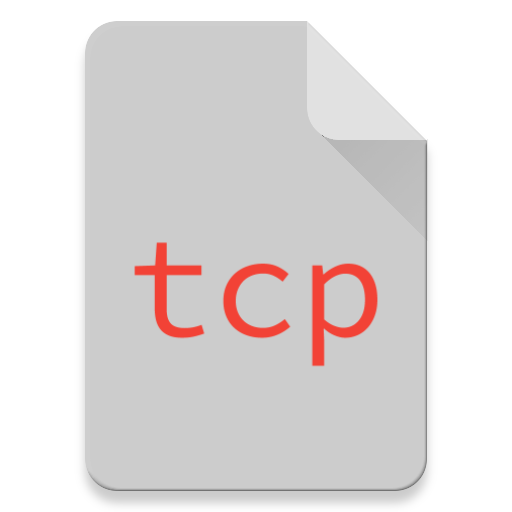
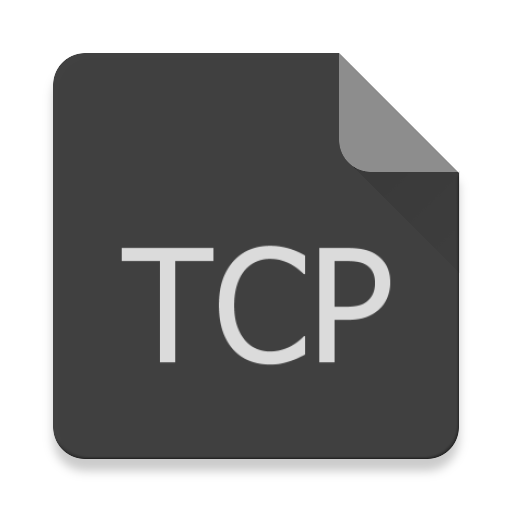
Multiple fix

diff --git a/app/src/main/java/fr/dao/app/View/Widget/Adapter/WiresharkDashboardAdapter.java b/app/src/main/java/fr/dao/app/View/Widget/Adapter/WiresharkDashboardAdapter.java
@@ -43,6 +43,13 @@ public class                    WiresharkDashboardAdapter extends RecyclerView.A
                 .inflate(R.layout.item_packets_type, parent, false));
     }
 
+    /**
+     * lOGO
+     * Thamoa
+     * 20% padding
+     * DDDDDD
+     * 414141
+     */
     public void                 onBindViewHolder(final PacketHolder holder, int position) {
         switch (holder.getAdapterPosition()) {
             case TCP:
